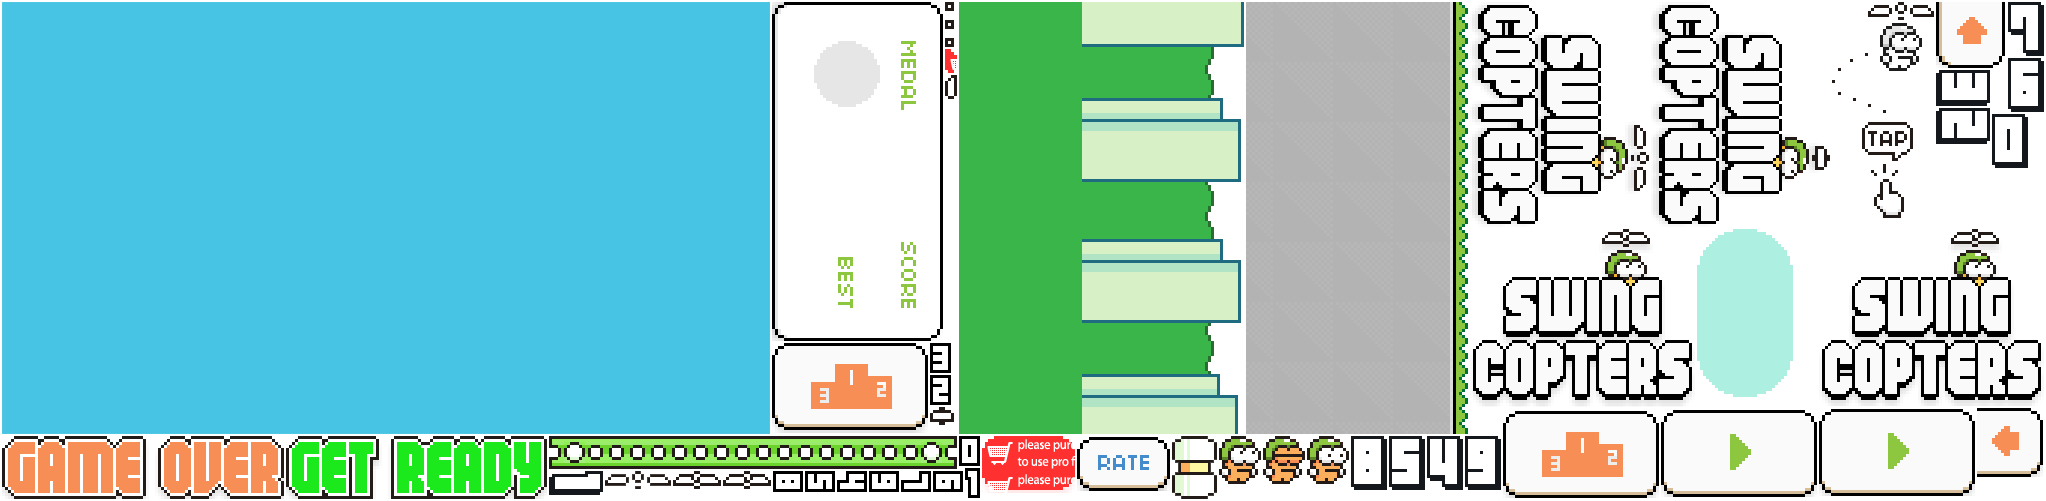
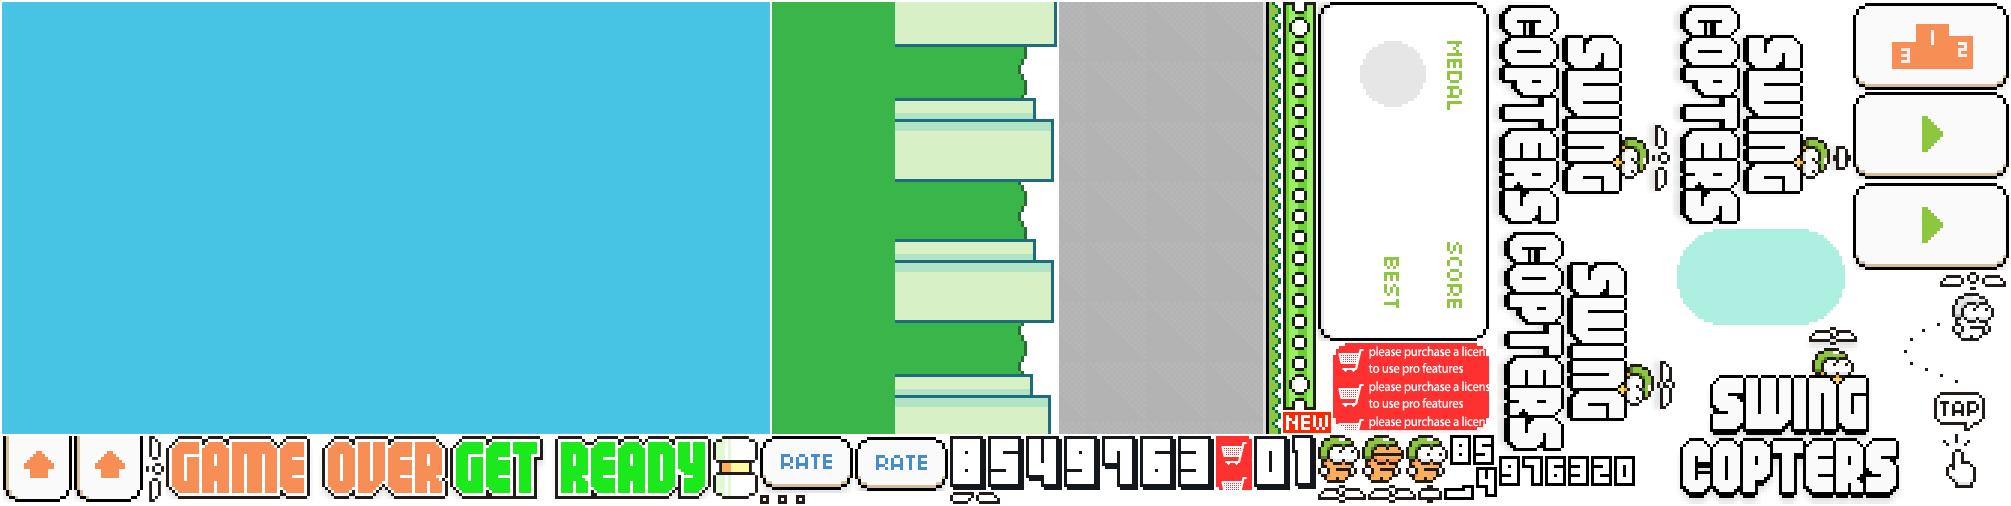
Implemented saving & loading highscore.

diff --git a/js/ScoreBoard.js b/js/ScoreBoard.js
@@ -2,12 +2,12 @@ cb.ScoreBoard = cc.Node.extend({
     _scoreSprite : null,
     _highScoreSprite : null,
 
-    ctor:function(highScore) {
+    ctor:function() {
         this._super();
 
         this._createBackgroundSprite();
         this._createScoreSprite();
-        this._createHighScoreSprite(highScore || 0);
+        this._createHighScoreSprite();
     },
 
     _createBackgroundSprite:function() {
@@ -21,7 +21,8 @@ cb.ScoreBoard = cc.Node.extend({
         this._scoreSprite.setPosition(cc.p(136, 21));
     },
 
-    _createHighScoreSprite:function(highScore) {
+    _createHighScoreSprite:function() {
+        var highScore = cb.CookieManager.sharedManager().getCookie("highscore") || 0;
         this._highScoreSprite = new cb.ScoreSprite(highScore, cb.ScoreSprite.Font.Small, cb.ScoreSprite.Alignment.RightAligned);
         this.addChild(this._highScoreSprite);
         this._highScoreSprite.setPosition(cc.p(136, -42));
@@ -30,8 +31,12 @@ cb.ScoreBoard = cc.Node.extend({
     animateScore:function(score, callback, callbackTarget) {
         var updateInterval = 0.05;
         function animationUpdate() {
-            if (this._scoreSprite.getScore() == score)
+            if (this._scoreSprite.getScore() == score) {
+                if (score > this._highScoreSprite.getScore()) {
+                    this._updateHighScore(score);
+                }
                 callback.apply(callbackTarget);
+            }
             else {
                 this._scoreSprite.setScore(this._scoreSprite.getScore() + 1);
                 this.runAction(cc.Sequence.create([ cc.DelayTime.create(updateInterval),
@@ -39,5 +44,17 @@ cb.ScoreBoard = cc.Node.extend({
             }
         }
         animationUpdate.apply(this);
+    },
+
+    _updateHighScore:function(newHighScore) {
+        cb.CookieManager.sharedManager().saveCookie("highscore", newHighScore);
+        this._highScoreSprite.setScore(newHighScore);
+        this._highlightNewHighScore();
+    },
+
+    _highlightNewHighScore:function() {
+        var highlightNewSprite = cc.Sprite.create(cb.resources.new_high_score);
+        this.addChild(highlightNewSprite);
+        highlightNewSprite.setPosition(cc.p(57, -12))
     }
 });

diff --git a/js/CookieManager.js b/js/CookieManager.js
@@ -1,0 +1,28 @@
+cb.CookieManager = cc.Class.extend({
+    // from http://www.w3schools.com/js/js_cookies.asp
+    saveCookie:function(cname, cvalue) {
+        document.cookie = cname + "=" + cvalue;
+    },
+
+    // from http://www.w3schools.com/js/js_cookies.asp
+    getCookie:function(cname) {
+        var name = cname + "=";
+        var ca = document.cookie.split(';');
+        for(var i=0; i<ca.length; i++) {
+            var c = ca[i];
+            while (c.charAt(0)==' ') c = c.substring(1);
+            if (c.indexOf(name) != -1) return c.substring(name.length,c.length);
+        }
+        return "";
+    }
+});
+
+cb.CookieManager.sharedManager = (function() {
+    var sharedManager = null;
+
+    return function() {
+        if (!sharedManager)
+            sharedManager = new cb.CookieManager();
+        return sharedManager;
+    }
+}());

diff --git a/index.html b/index.html
@@ -5,6 +5,7 @@
     <script type="text/javascript" src="js/libs/cocos2d-html5-3.0RC2.js"></script>
     <script type="text/javascript" src="js/libs/jquery-1.11.1.js"></script>
     <script type="text/javascript" src="main.js"></script>
+    <script type="text/javascript" src="js/CookieManager.js"></script>
     <script type="text/javascript" src="js/Collision.js"></script>
     <script type="text/javascript" src="js/SimplePhysicsBody.js"></script>
     <script type="text/javascript" src="js/Player.js"></script>

diff --git a/main.js b/main.js
@@ -38,6 +38,7 @@ cb.resources.game_over = "game_over";
 cb.resources.score_board_bg = "score_board_bg";
 cb.resources.back_button = "back_button";
 cb.resources.back_button_selected = "back_button_selected";
+cb.resources.new_high_score = "new_high_score";
 
 (function() {
     for (var name in cb.resources)
